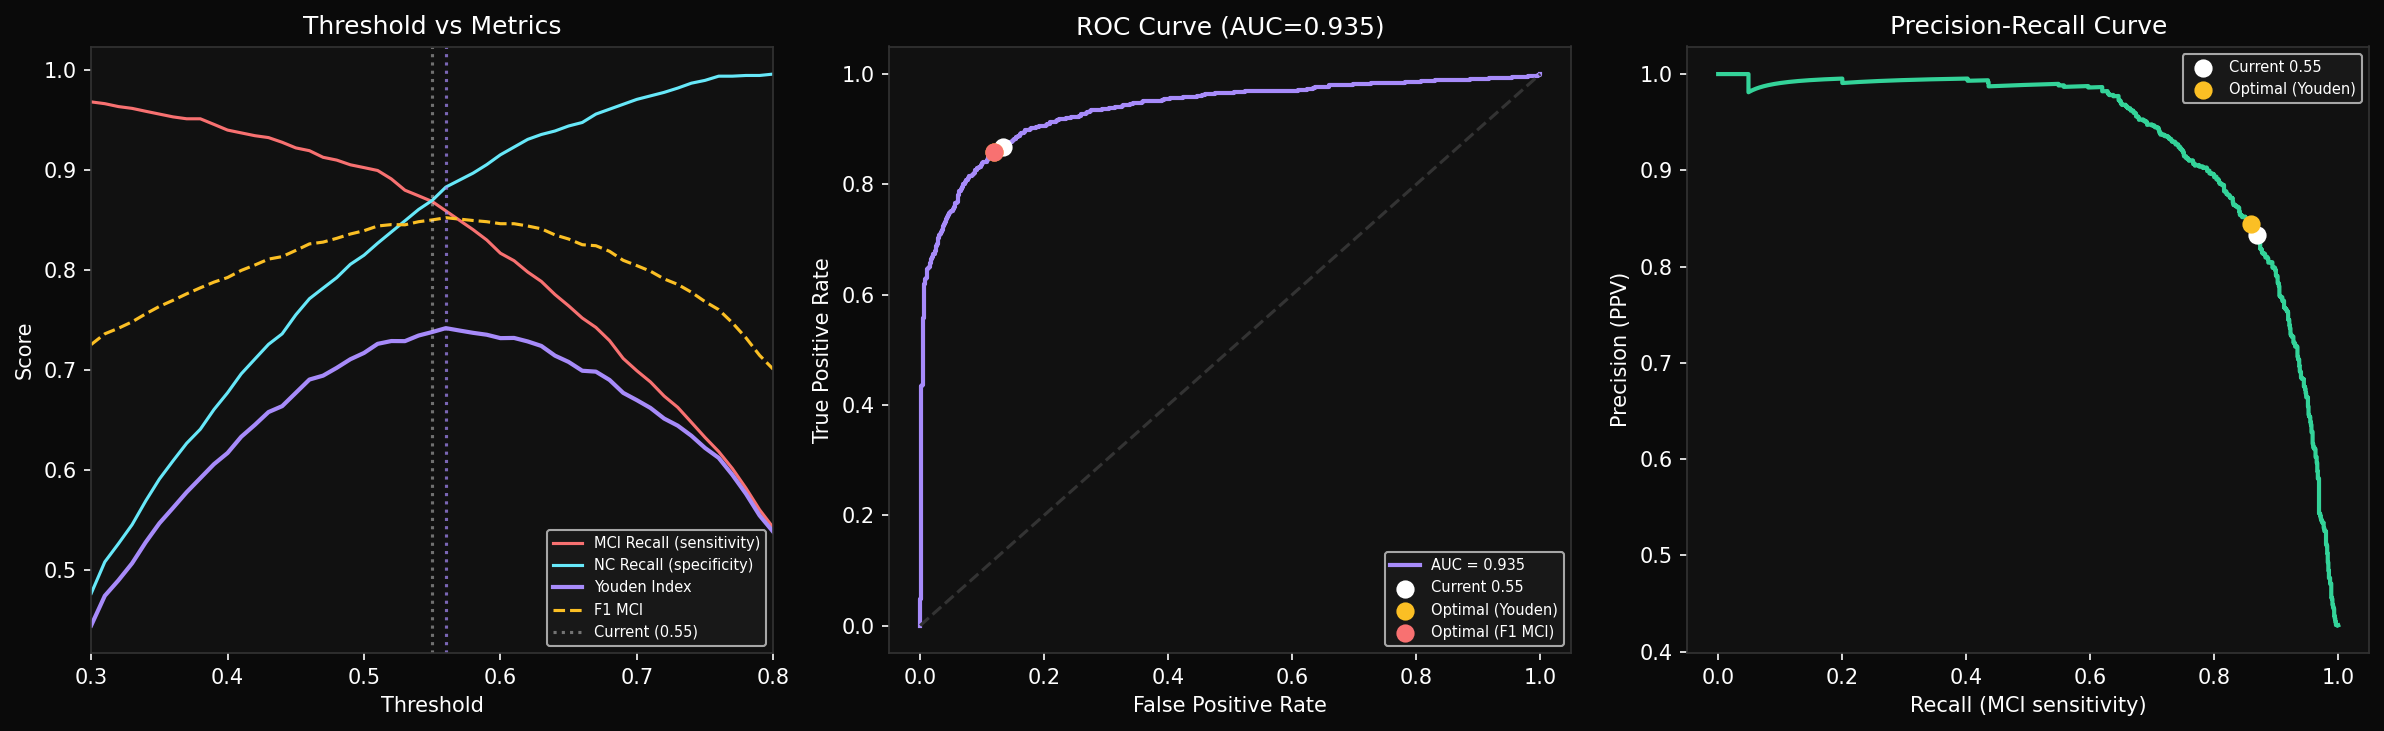
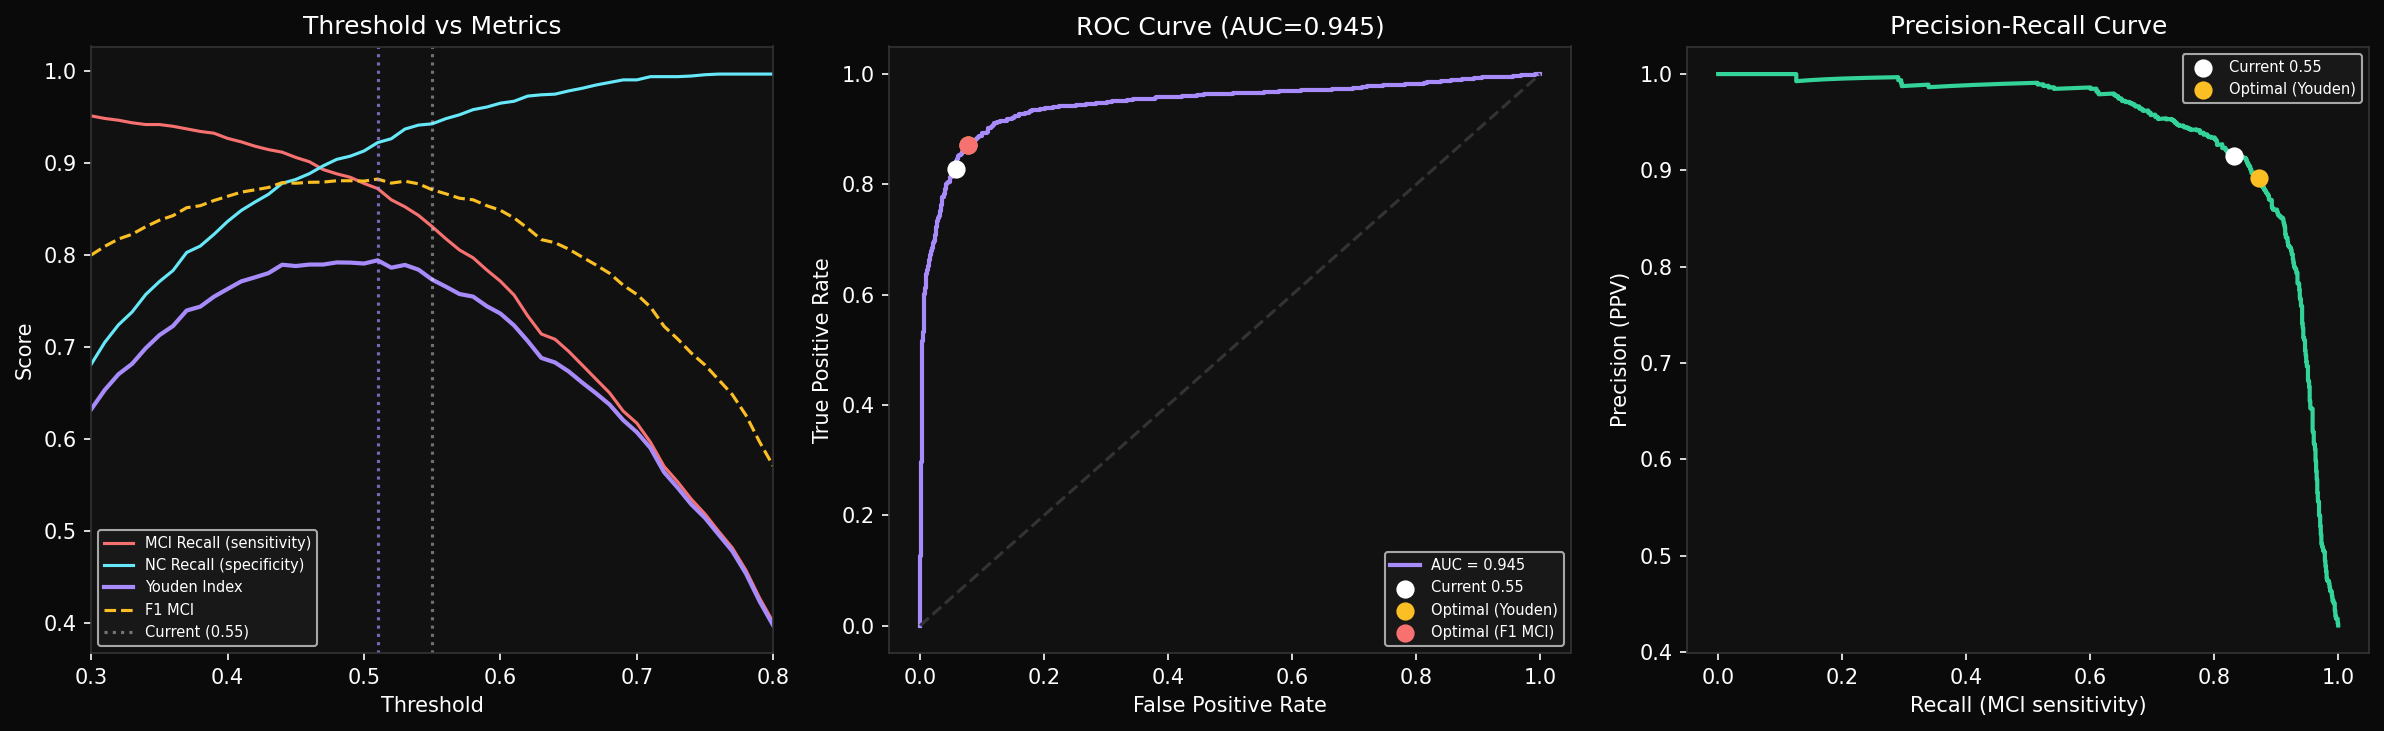
Added NCC, updated Viewer page to not be static + Bug Fixes

diff --git a/ThePipelineComplete/server.py b/ThePipelineComplete/server.py
@@ -63,9 +63,38 @@ _inf_mod.TASKS["task3"]["model_dir"] = str(BASE_DIR / "trained_models" / "task3"
 # above patch already fixes it — no extra action needed.
 
 from glcm import extract_features
-from preprocessing import preprocess_to_bin
+from preprocessing import (
+    n4_correct, register_to_mni, crop_hippocampus,
+    quantize_crops, crops_to_bin_bytes,
+)
 from data_fusion import compute_temporal_features, build_metadata_array
 from inference import run_cascade
+import numpy as np
+
+# ── NCC quality thresholds (match training pipeline 0_0_3_MNI.py) ────────────
+NCC_FAIL_THRESHOLD = 0.60   # below → reject scan, abort pipeline
+NCC_WARN_THRESHOLD = 0.70   # below → continue but flag warning in result
+NCC_MIN_VOXELS     = 50_000 # below → NCC unreliable (corrupted/clipped FOV)
+
+def _compute_ncc(template_np: np.ndarray, registered_np: np.ndarray) -> tuple:
+    """
+    Normalised cross-correlation restricted to voxels nonzero in both
+    the MNI template and the registered scan. Matches compute_ncc() in
+    0_0_3_MNI.py exactly — same mask, same formula.
+    Returns (ncc, n_overlap_voxels).
+    """
+    mask     = (template_np > 0) & (registered_np > 0)
+    n_voxels = int(mask.sum())
+    if n_voxels < NCC_MIN_VOXELS:
+        return 0.0, n_voxels
+    f = template_np[mask].astype(np.float64)
+    m = registered_np[mask].astype(np.float64)
+    f -= f.mean()
+    m -= m.mean()
+    denom = np.sqrt((f * f).sum()) * np.sqrt((m * m).sum())
+    if denom < 1e-8:
+        return 0.0, n_voxels
+    return float((f * m).sum() / denom), n_voxels
 
 # ── Job store (in-memory, single process) ─────────────────────────────────────
 # Each job_id → dict with keys: status, stages, result, error
@@ -123,20 +152,54 @@ def _run_pipeline(
 
         scan_dates = _parse_dates(scan_dates_str)
 
-        # Preprocess all scans in parallel — each scan gets its own thread
-        # scan_paths are already sorted by date; we preserve order via index
-        all_bin: list[bytes] = [b""] * len(scan_paths)
+        # Preprocess all scans in parallel — each scan gets its own thread.
+        # NCC is computed after registration (before cropping) as a quality gate.
+        # scan_paths are already sorted by date; we preserve order via index.
+        all_bin:      list[bytes] = [b""]  * len(scan_paths)
+        all_ncc:      list[float] = [0.0]  * len(scan_paths)
+        ncc_warnings: list[str]   = []
+
+        # Load MNI template numpy array once for NCC computation
+        import ants as _ants
+        _template_np = _ants.image_read(str(BASE_DIR / "MNI_Template" / "MNI152_T1_1mm.nii.gz")).numpy()
 
         def _preprocess_one(args):
             idx, path = args
-            return idx, preprocess_to_bin(path)
+            # Step-by-step preprocessing so we can intercept after registration
+            img_n4         = n4_correct(path)
+            img_registered = register_to_mni(img_n4)
+
+            # ── NCC quality check ───────────────────────────────────────────
+            registered_np       = img_registered.numpy()
+            ncc, n_overlap      = _compute_ncc(_template_np, registered_np)
+
+            if ncc < NCC_FAIL_THRESHOLD:
+                raise ValueError(
+                    f"Scan {idx+1} registration failed: NCC={ncc:.3f} "
+                    f"(threshold={NCC_FAIL_THRESHOLD}). "
+                    f"Overlap voxels: {n_overlap:,}. "
+                    f"Check scan orientation or image quality."
+                )
+
+            # Crop, quantize, serialise
+            crops           = crop_hippocampus(img_registered)
+            crops_quantized = quantize_crops(crops)
+            bin_bytes       = crops_to_bin_bytes(crops_quantized)
+
+            return idx, bin_bytes, ncc, n_overlap
 
         with ThreadPoolExecutor(max_workers=len(scan_paths)) as executor:
             futures = {executor.submit(_preprocess_one, (i, p)): i
                        for i, p in enumerate(scan_paths)}
             for future in as_completed(futures):
-                idx, bin_bytes = future.result()
+                idx, bin_bytes, ncc, n_overlap = future.result()
                 all_bin[idx] = bin_bytes
+                all_ncc[idx] = ncc
+                if ncc < NCC_WARN_THRESHOLD:
+                    ncc_warnings.append(
+                        f"Scan {idx+1}: NCC={ncc:.3f} — registration quality low, "
+                        f"results may be less reliable."
+                    )
 
         _emit(job_id, "stage", {"index": 1, "status": "complete", "label": "Preprocess"})
 
@@ -186,6 +249,13 @@ def _run_pipeline(
                 import math
                 return None if math.isnan(obj) else round(obj, 4)
             return obj
+
+        # Attach NCC quality metadata to result
+        results["registration_qc"] = {
+            "ncc_per_scan":   [round(n, 4) for n in all_ncc],
+            "ncc_warnings":   ncc_warnings,
+            "ncc_pass":       all(n >= NCC_WARN_THRESHOLD for n in all_ncc),
+        }
 
         _emit(job_id, "result", {"status": "success", "data": _clean(results)})
         _jobs[job_id]["status"] = "done"

diff --git a/ThePipelineComplete/Threshold_Calibration.py b/ThePipelineComplete/Threshold_Calibration.py
@@ -51,9 +51,8 @@ warnings.filterwarnings("ignore")
 BASE_DIR   = Path(__file__).resolve().parent
 MODEL_DIR  = BASE_DIR / "trained_models" / "task3"
 DATA_PATHS = [
-    BASE_DIR.parent / "scan_level_enriched.csv",
-    BASE_DIR.parent / "Hippocampus_Crops" / "scan_level_final.csv",
     BASE_DIR.parent / "scan_level_final.csv",
+    BASE_DIR.parent / "Hippocampus_Crops" / "scan_level_final.csv",
     Path("scan_level_final.csv"),
 ]
 
@@ -72,10 +71,15 @@ def reconstruct_features(df):
     Align column names and reconstruct missing features to match
     the survived feature list the model was trained on.
     """
-    # 1. Rename A_ → asym_diff_
+    # 1. Rename A_ → asym_diff_ (skip if target already exists to avoid duplicate columns)
     rename_map = {c: c.replace("A_", "asym_diff_", 1)
-                  for c in df.columns if c.startswith("A_")}
+                  for c in df.columns if c.startswith("A_")
+                  and c.replace("A_", "asym_diff_", 1) not in df.columns}
     df = df.rename(columns=rename_map)
+    # Drop any residual A_* columns whose asym_diff_* counterpart already existed
+    leftover_a = [c for c in df.columns if c.startswith("A_")]
+    if leftover_a:
+        df = df.drop(columns=leftover_a)
 
     # 2. Rename CSF columns
     csf_map = {
@@ -149,7 +153,12 @@ def align_features(df, feature_list):
 
     X = pd.DataFrame(index=df.index)
     for f in feature_list:
-        X[f] = df[f] if f in df.columns else np.nan
+        if f not in df.columns:
+            X[f] = np.nan
+        else:
+            col = df[f]
+            # Guard against duplicate columns returning a DataFrame
+            X[f] = col.iloc[:, 0] if isinstance(col, pd.DataFrame) else col
     return X
 
 

diff --git a/ThePipelineComplete/inference.py b/ThePipelineComplete/inference.py
@@ -25,7 +25,7 @@ TASKS = {
 }
 
 AD_THRESHOLD  = 0.65
-MCI_THRESHOLD = 0.55
+MCI_THRESHOLD = 0.51
 
 # =============================================================================
 # MODEL LOADER
